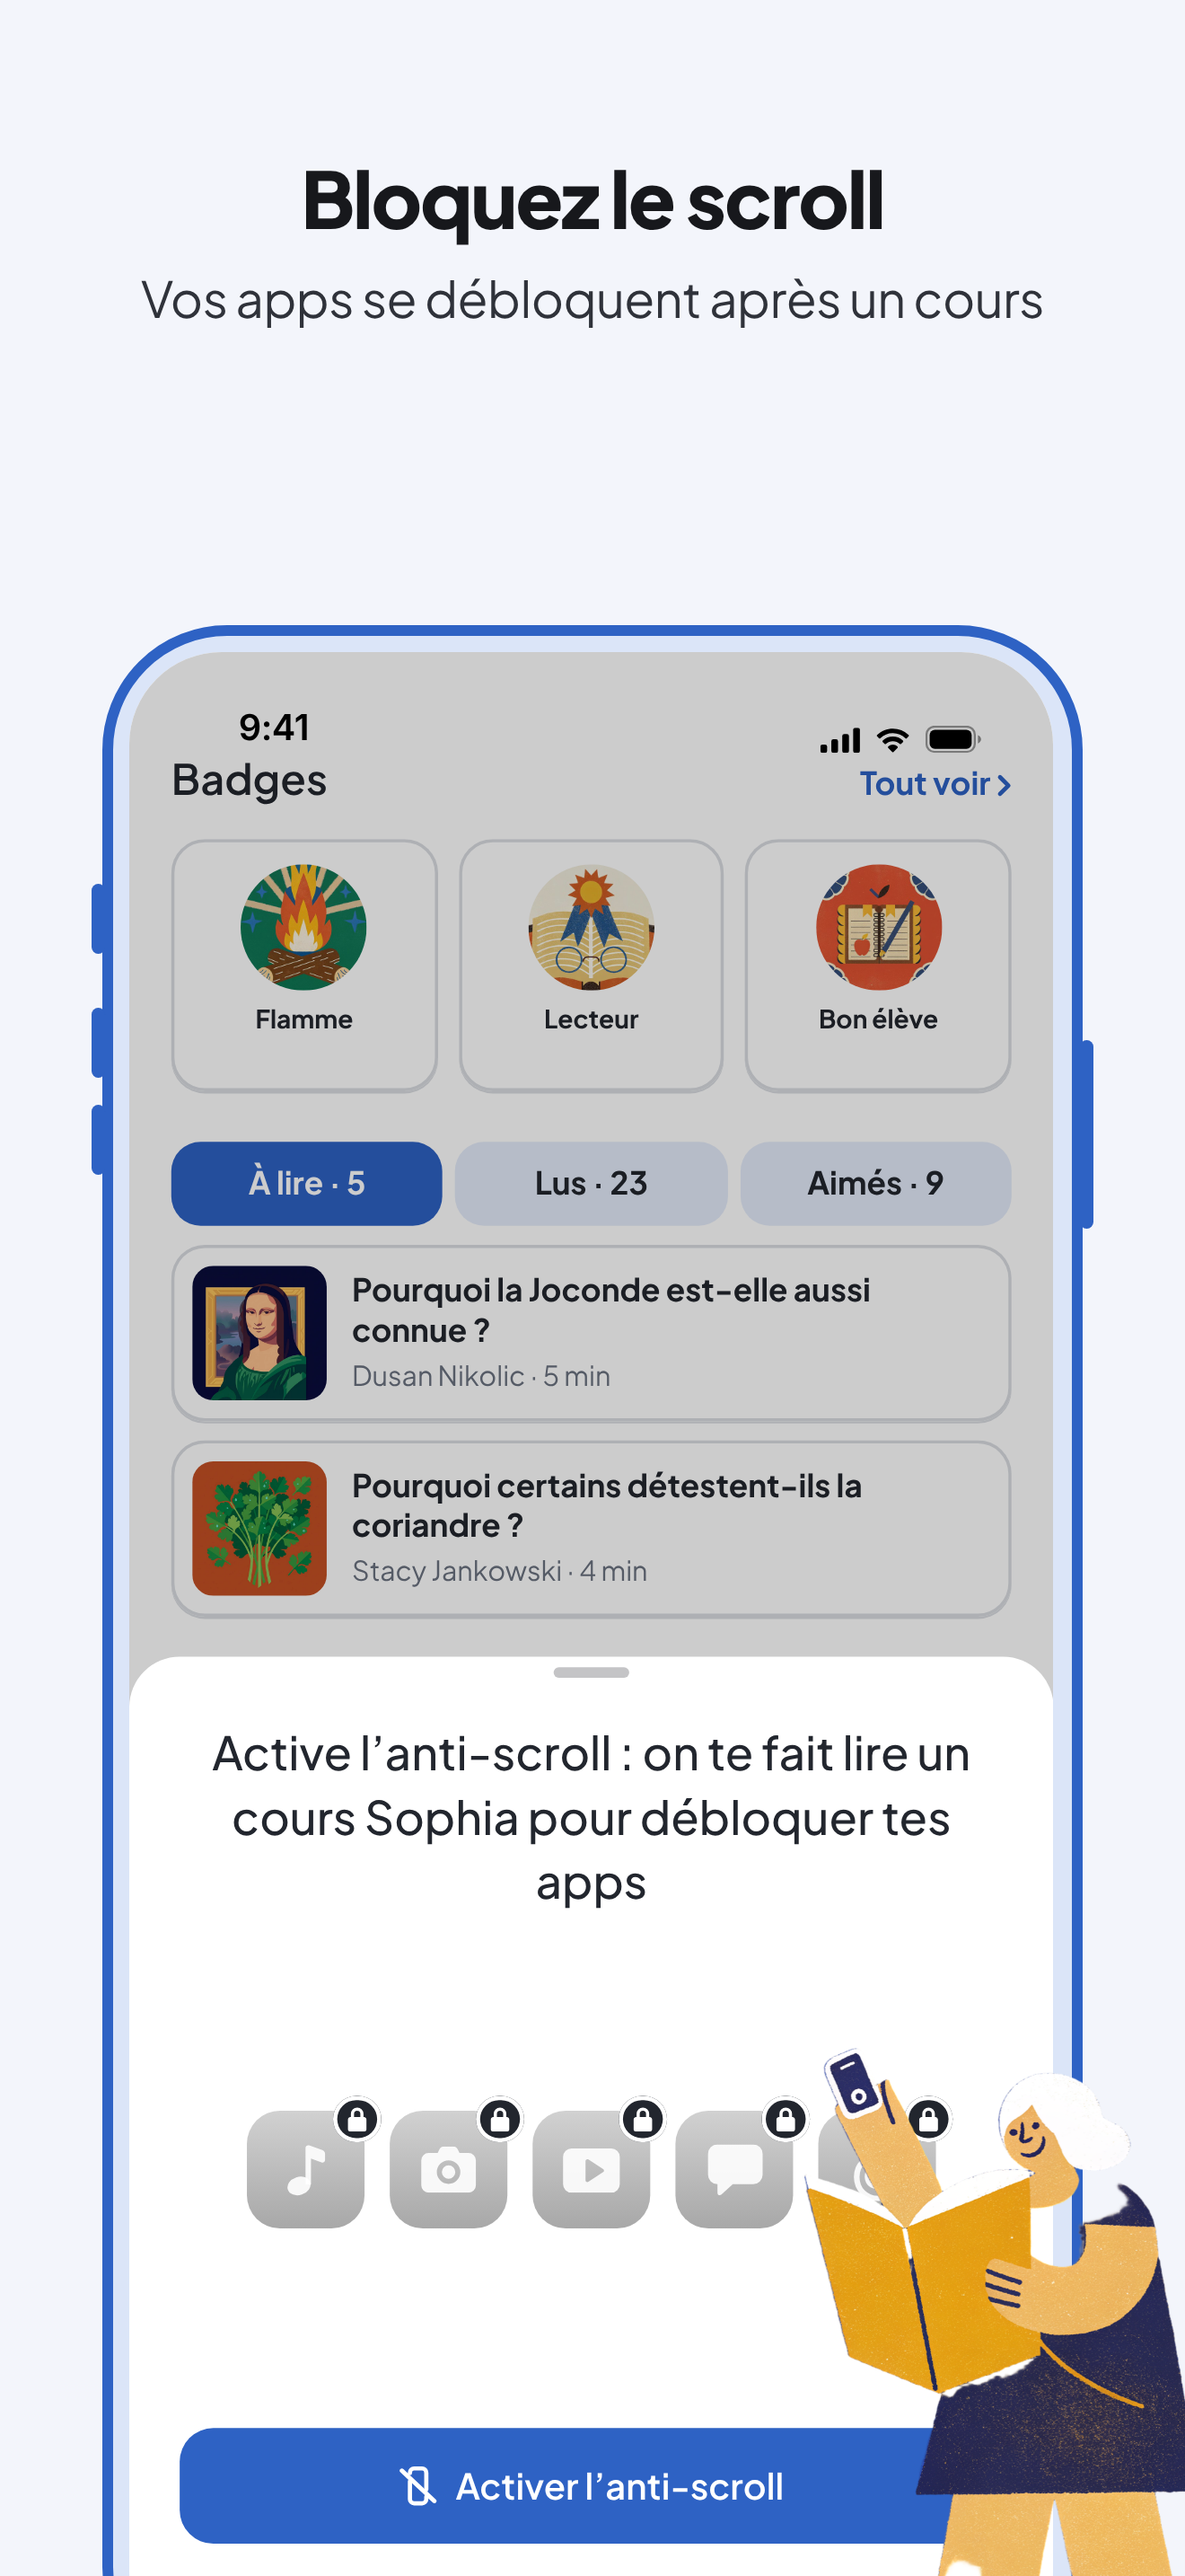
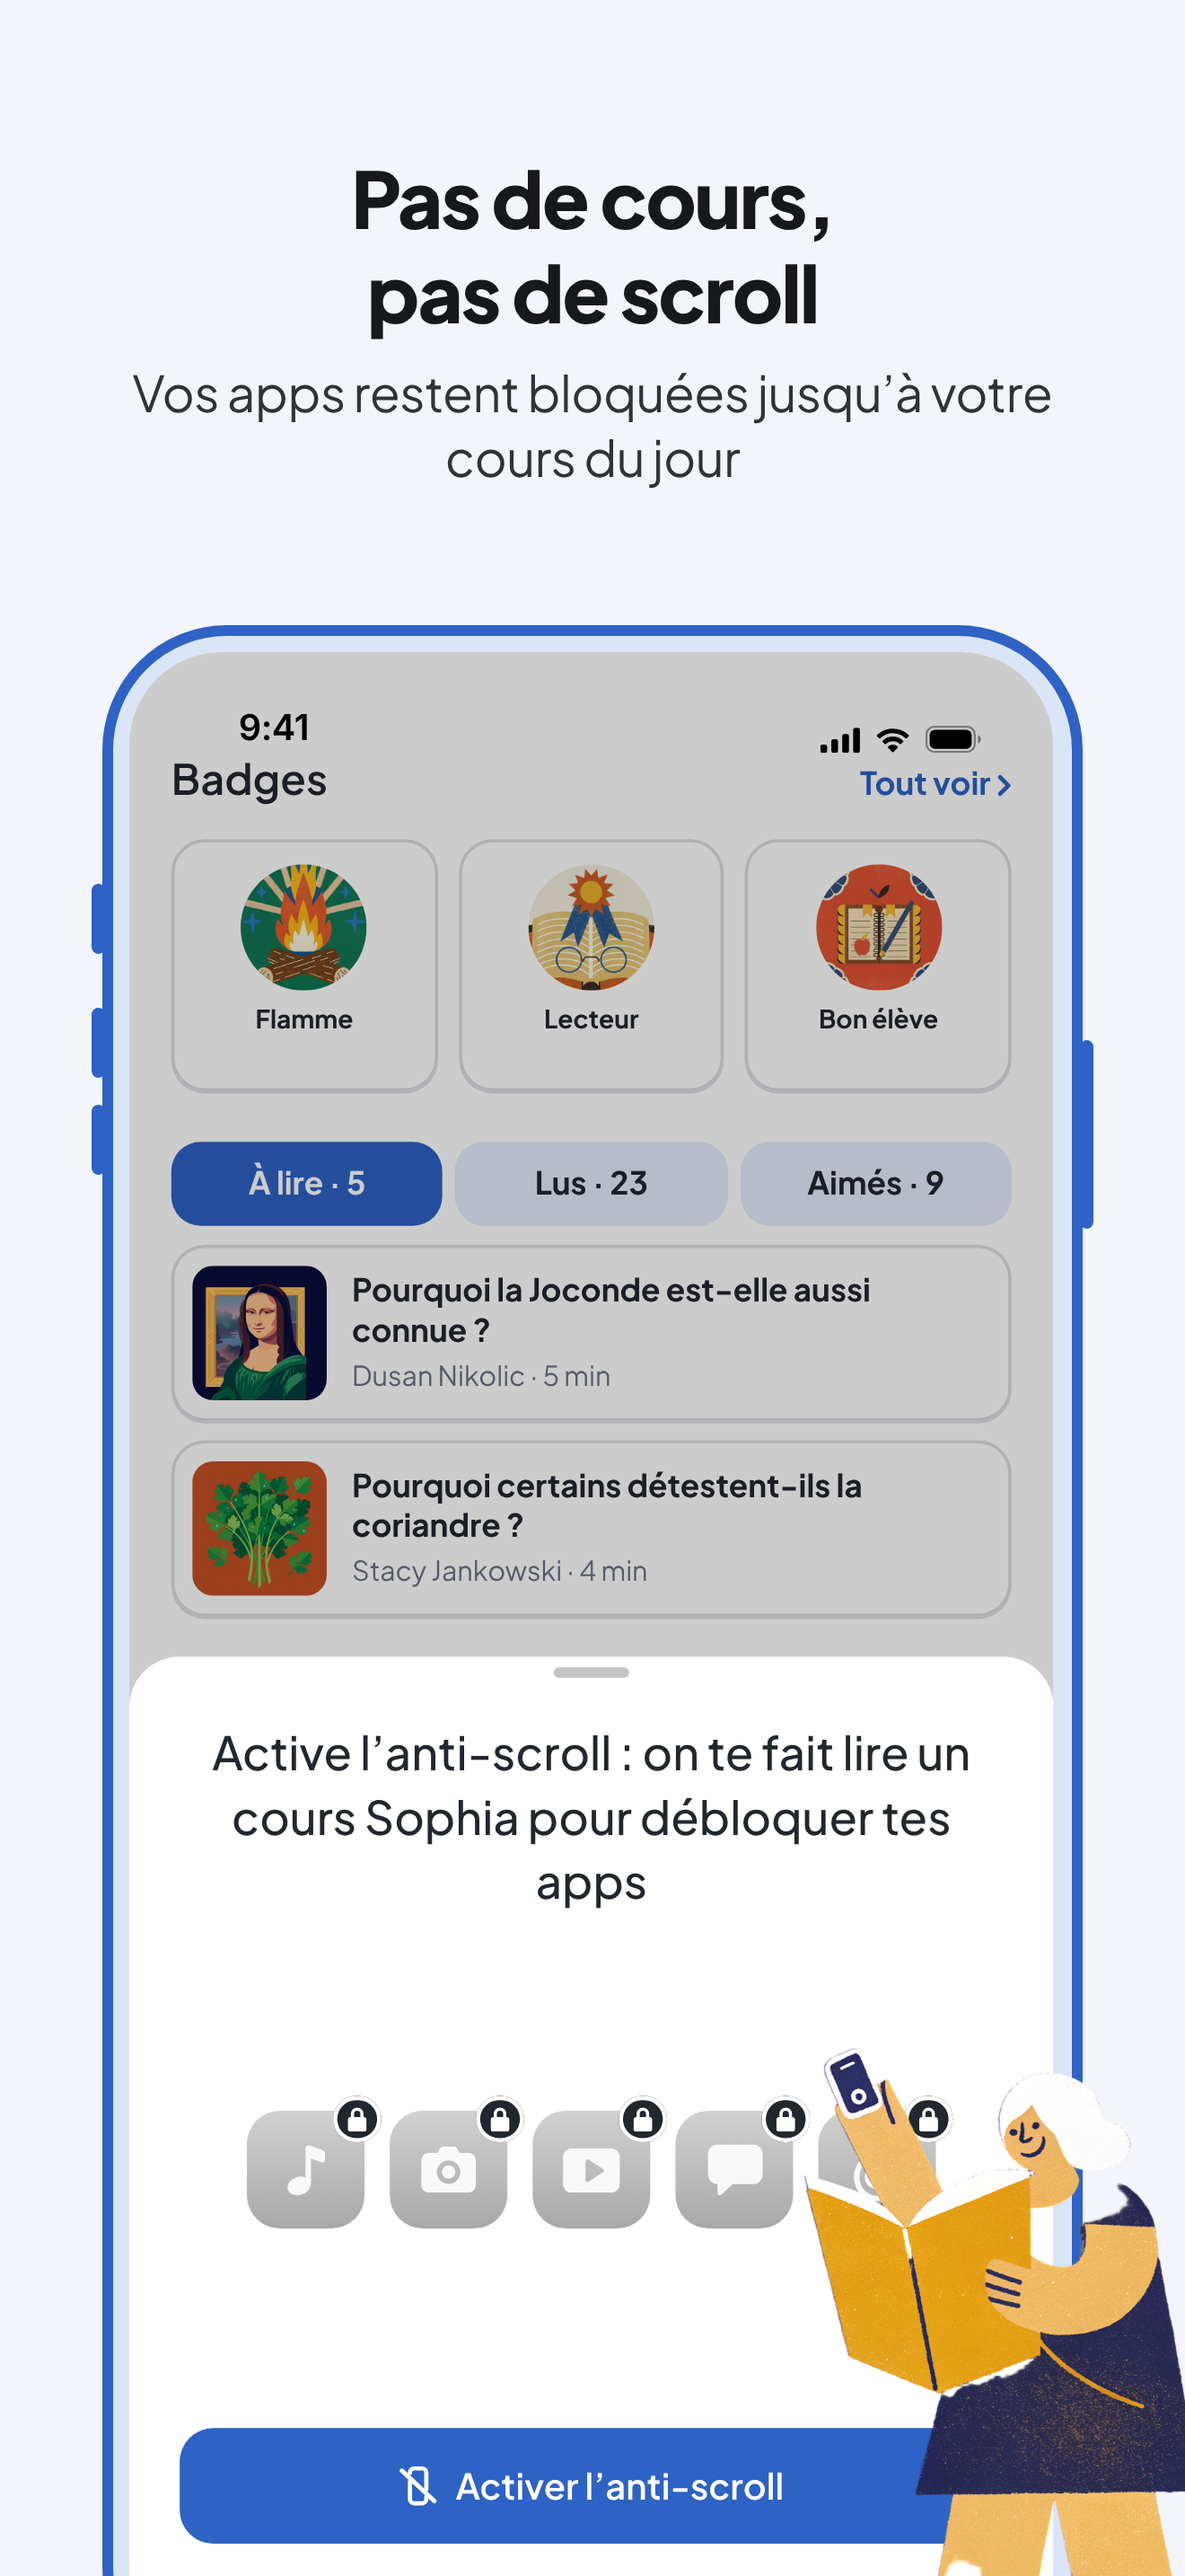
Captures App Store, vitrine : ouverture en collage et titres reecrits
Premiere page remplie d'objets illustres (portrait, buste, fusee, Saturne,
globe, telescope, amphore, masques) autour du logo et de la bulle.
Titres plus directs sur les neuf panneaux.

Claude-Session: https://claude.ai/code/session_01Yb4eBsmKHAU4mkJzSv6usd

Changed region(s): [[0.1242, 0.0621, 0.7455, 0.1862], [0.7765, 0.0931, 0.8697, 0.1241], [0.2174, 0.1552, 0.2485, 0.1862]]

diff --git a/appstore/screenshots/src/pano.js b/appstore/screenshots/src/pano.js
@@ -84,16 +84,15 @@ const PANOS = {
   // running off the bottom, and a wall of real course covers to close.
   vitrine: {
     dir: "-vitrine", copy: { "fr-FR": Object.assign({}, COPY_FR, {
-      hero: ["Moins de scroll,<br>plus de culture"],
-      promise: ["Se cultiver en <b>10 min</b><br>par jour"],
-      home: ["Un cours par jour", "Choisi pour vous"],
-      reader: ["Des cours courts<br>et illustrés", "Qui vont à l’essentiel"],
-      quiz: ["Un quiz<br>à chaque cours", "Pour retenir ce que vous lisez"],
-      duels: ["Défiez vos amis<br>en duel", "La culture générale, en match"],
-      blocker: ["Bloquez le scroll", "Vos apps se débloquent après un cours"],
-      explore: ["Tous les savoirs", "Histoire, sciences, art, littérature…"],
-      profile: ["Suivez votre série", "Un peu plus de culture chaque jour"],
-      wall: ["Plus de 300 cours<br>illustrés"],
+      hero: ["Scrollez moins.<br>Sachez plus."],
+      promise: ["Plus malin en <b>10\u00a0min</b><br>par jour"],
+      reader: ["Comment naît<br>un éclair\u00a0?", "La réponse en 5\u00a0minutes, images à l’appui"],
+      quiz: ["Lu, c’est bien.<br>Retenu, c’est mieux.", "Un quiz à la fin de chaque cours"],
+      duels: ["Battez vos amis<br>à plate couture", "Des duels de culture générale"],
+      blocker: ["Pas de cours,<br>pas de scroll", "Vos apps restent bloquées jusqu’à votre cours du jour"],
+      explore: ["De Kafka<br>aux trous noirs", "Histoire, sciences, art, mythologie…"],
+      profile: ["24 jours d’affilée.<br>Et vous\u00a0?", "Gardez votre série en vie"],
+      wall: ["Plus de 300 cours.<br>Zéro ennui."],
     }) },
     panels: [
       { theme: "blue", logo: "big", bubble: "hero" },
@@ -111,14 +110,29 @@ const PANOS = {
       screen: s, cx: mid(k + 1), cy: 232 + (956 * 0.78 + 21) / 2, s: 0.78,
       frame: k === 0 ? "#cdd9f5" : "#2e62c4", band: k === 0 ? "#e9effb" : "#dbe5f8" })),
     people: [
-      { name: "thinker", x: 112, b: 332, h: 262 },
-      { name: "headphones", x: 345, b: 352, h: 292, r: 3 },
-      { name: "lying", x: 150, b: 930, h: 235, r: -2 },
-      { name: "reader_walking", x: P(1) - 22, b: 962, h: 275 },
+      // opening collage
+      { name: "prop_saturn", x: 232, b: 118, h: 118, r: -12 },
+      { name: "prop_portrait", x: 92, b: 262, h: 250, r: -9 },
+      { name: "prop_bust", x: 356, b: 318, h: 262, r: 7 },
+      { name: "prop_rocket", x: 214, b: 338, h: 176, r: 14 },
+      { name: "prop_mask", x: 84, b: 356, h: 78, r: -7 },
+      { name: "prop_telescope", x: 92, b: 790, h: 150, r: -4 },
+      { name: "prop_globe", x: 318, b: 800, h: 168, r: 9 },
+      { name: "lying", x: 146, b: 968, h: 205, r: -2 },
+      { name: "prop_amphora", x: 300, b: 1010, h: 215, r: -7 },
+      { name: "reader_walking", x: P(1) - 8, b: 962, h: 265, z: 4 },
       { name: "phone_away", x: P(5) + 372, b: 975, h: 215, flip: true },
       { name: "waving", x: P(7) + 398, b: 966, h: 210, flip: true },
     ],
     extras: [
+      { x: 150, y: 150, html: '<svg width="26" height="26" viewBox="0 0 24 24"><path fill="#fef5e9" d="M12 0c1 7 4 10 12 12-8 2-11 5-12 12-1-7-4-10-12-12 8-2 11-5 12-12Z"/></svg>' },
+      { x: 300, y: 60, html: '<svg width="18" height="18" viewBox="0 0 24 24"><path fill="#f2b134" d="M12 0c1 7 4 10 12 12-8 2-11 5-12 12-1-7-4-10-12-12 8-2 11-5 12-12Z"/></svg>' },
+      { x: 330, y: 470, html: '<svg width="20" height="20" viewBox="0 0 24 24"><path fill="#f2b134" d="M12 0c1 7 4 10 12 12-8 2-11 5-12 12-1-7-4-10-12-12 8-2 11-5 12-12Z"/></svg>' },
+      { x: 392, y: 360, html: '<svg width="24" height="24" viewBox="0 0 24 24"><path fill="#fef5e9" d="M12 0c1 7 4 10 12 12-8 2-11 5-12 12-1-7-4-10-12-12 8-2 11-5 12-12Z"/></svg>' },
+      { x: 196, y: 660, html: '<svg width="22" height="22" viewBox="0 0 24 24"><path fill="#fef5e9" d="M12 0c1 7 4 10 12 12-8 2-11 5-12 12-1-7-4-10-12-12 8-2 11-5 12-12Z"/></svg>' },
+      { x: 400, y: 640, html: '<svg width="16" height="16" viewBox="0 0 24 24"><path fill="#f2b134" d="M12 0c1 7 4 10 12 12-8 2-11 5-12 12-1-7-4-10-12-12 8-2 11-5 12-12Z"/></svg>' },
+      { x: 30, y: 640, html: '<svg width="14" height="14" viewBox="0 0 24 24"><path fill="#fef5e9" d="M12 0c1 7 4 10 12 12-8 2-11 5-12 12-1-7-4-10-12-12 8-2 11-5 12-12Z"/></svg>' },
+      { x: 470, y: 150, html: '<svg width="16" height="16" viewBox="0 0 24 24"><path fill="#fef5e9" d="M12 0c1 7 4 10 12 12-8 2-11 5-12 12-1-7-4-10-12-12 8-2 11-5 12-12Z"/></svg>' },
       { x: P(4) + 8, y: 420, html: '<img src="../../../ios/Sophia/Assets.xcassets/avatar_49.imageset/avatar_49.jpg" style="width:96px;height:96px;border-radius:50%;border:5px solid #fff;box-shadow:0 0 0 4px #2e62c4">' },
       { x: P(4) + 336, y: 560, html: '<img src="../../../ios/Sophia/Assets.xcassets/avatar_42.imageset/avatar_42.jpg" style="width:96px;height:96px;border-radius:50%;border:5px solid #fff;box-shadow:0 0 0 4px #dc6048">' },
     ],

diff --git a/appstore/screenshots/src/pano.html b/appstore/screenshots/src/pano.html
@@ -27,9 +27,9 @@ body { height: 956px; overflow: hidden; position: relative; font-family: "Plus J
 .text.center p { margin-top: 8px; font-weight: 400; }
 .text.center h1 b { font-size: 1.55em; line-height: 0.9; letter-spacing: -0.04em; }
 /* Hero of the "vitrine" set: big logo and a speech bubble */
-.logo.big { left: 40px; top: 388px; height: 62px; }
-.bubble { position: absolute; left: 40px; top: 486px; width: 318px; padding: 22px 24px 24px; border-radius: 14px;
-  background: #234fa6; color: #fff; font-weight: 700; font-size: 26px; line-height: 1.22; letter-spacing: -0.02em; z-index: 5; }
+.logo.big { left: 36px; top: 392px; height: 66px; }
+.bubble { position: absolute; left: 36px; top: 486px; width: auto; padding: 20px 26px 22px; border-radius: 14px;
+  background: #234fa6; color: #fff; font-weight: 800; font-size: 31px; line-height: 1.16; letter-spacing: -0.02em; z-index: 5; }
 .bubble::after { content: ""; position: absolute; left: 96px; bottom: -30px; border: 16px solid transparent; border-top-color: #234fa6; border-left-color: #234fa6; }
 /* Thick coloured phone frame with a pale inner band and side buttons */
 .phone.thick { border: 4.5px solid var(--frame); padding: 6px; background: var(--band); box-shadow: none; overflow: visible;

diff --git a/appstore/screenshots/people.py b/appstore/screenshots/people.py
@@ -30,6 +30,23 @@ PEOPLE = {
     "thinker": "A young East Asian man with glasses standing with one hand on his chin, thinking, a question mark shaped curl of hair, cream shirt, navy overalls.",
 }
 
+# Objects for the opening collage: same style, brighter palette so they read on brand blue.
+# Avoid objects that are mostly cream or white: the background removal eats them.
+PROP_STYLE = ("A single isolated object, centred with empty space around. Flat poster illustration, paper-cut "
+              "shapes, limited palette of saffron yellow, coral red and cream with small deep navy details, bold "
+              "simple forms, subtle paper grain, plain pure white background, no shadow, no text, no outlines, no scenery.")
+PROPS = {
+    "prop_bust": "An ancient Greek marble bust of a bearded philosopher wearing a laurel wreath, seen in three-quarter view.",
+    "prop_saturn": "The planet Saturn with its rings, with two small stars.",
+    "prop_amphora": "An ancient Greek amphora vase decorated with a running figure.",
+    "prop_telescope": "A brass telescope on a tripod pointing up to the left.",
+    "prop_rocket": "A retro space rocket flying upward to the right with a flame.",
+    "prop_portrait": "A framed painted portrait of a renaissance lady with a mysterious smile, in an ornate golden frame.",
+    "prop_globe": "A desk globe of the Earth on a stand.",
+    "prop_mask": "A pair of theatre masks, comedy and tragedy.",
+}
+PROMPTS = {**{k: v + " " + STYLE for k, v in PEOPLE.items()}, **{k: v + " " + PROP_STYLE for k, v in PROPS.items()}}
+
 def call(method, url, body=None):
     req = urllib.request.Request(url, data=json.dumps(body).encode() if body is not None else None, method=method,
         headers={"Authorization": f"Key {KEY}", "Content-Type": "application/json", "Accept": "application/json", "User-Agent": "appstore-art/1.0"})
@@ -50,22 +67,22 @@ def run(model, payload, budget=420):
     raise TimeoutError(model)
 
 def make(name):
-    res = run("fal-ai/recraft-v3", {"prompt": PEOPLE[name] + " " + STYLE, "image_size": "portrait_4_3",
+    res = run("fal-ai/recraft-v3", {"prompt": PROMPTS[name], "image_size": "square_hd" if name in PROPS else "portrait_4_3",
         "style": "digital_illustration/2d_art_poster", "colors": [{"r": c[0], "g": c[1], "b": c[2]} for c in COLORS]})
     url = res["images"][0]["url"]
     cut = run("fal-ai/birefnet", {"image_url": url, "output_format": "png"})
     with urllib.request.urlopen(urllib.request.Request(cut["image"]["url"], headers={"User-Agent": "appstore-art/1.0"}), timeout=120) as r:
         im = Image.open(io.BytesIO(r.read())).convert("RGBA")
     im = im.crop(im.getbbox())
-    if max(im.size) > 1400:
-        k = 1400 / max(im.size); im = im.resize((round(im.width * k), round(im.height * k)), Image.LANCZOS)
+    if max(im.size) > 900:
+        k = 900 / max(im.size); im = im.resize((round(im.width * k), round(im.height * k)), Image.LANCZOS)
     OUT.mkdir(parents=True, exist_ok=True)
     im.save(OUT / f"{name}.png", optimize=True)
     print(name, im.size, flush=True)
 
 if __name__ == "__main__":
     if not KEY: sys.exit("FAL_KEY manquant")
-    names = sys.argv[1].split(",") if len(sys.argv) > 1 else list(PEOPLE)
+    names = sys.argv[1].split(",") if len(sys.argv) > 1 else list(PROMPTS)
     from concurrent.futures import ThreadPoolExecutor
     def safe(n):
         try: make(n)
